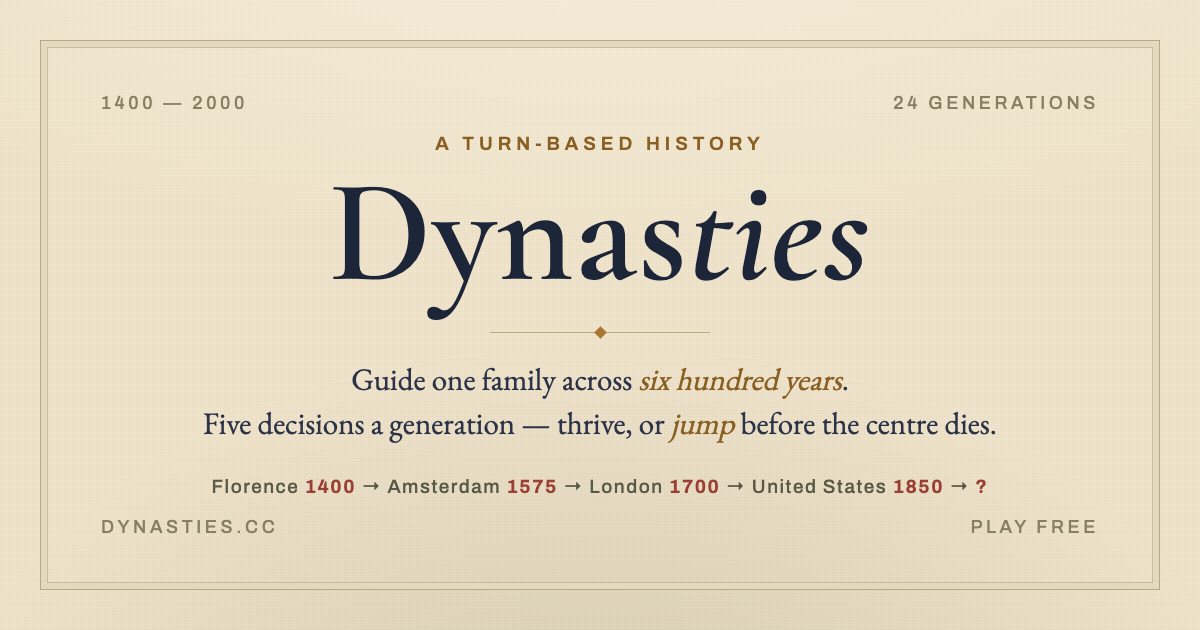
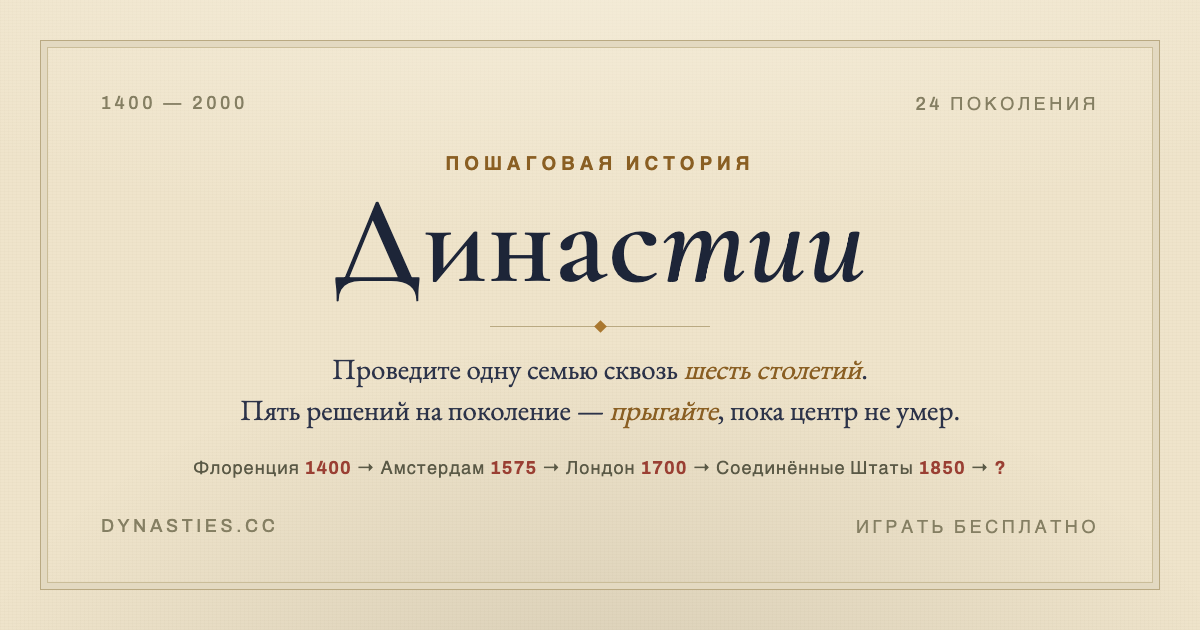
Make Russian the default language
Detection previously fell back to English for every locale that was
not Russian-adjacent. Russian is now the default: only a browser whose
primary language is English opens in English, and everything else —
ru, de, fr, unset — starts Russian. An explicit EN/RU choice still
wins over detection, as before.

The social card follows the default: og/twitter metadata, the static
title and <html lang> are Russian, og:locale is ru_RU with en_US as
the alternate, and og.png is regenerated in Russian. The image is
referenced with ?v=2 so the CDN and unfurlers fetch the new one rather
than the cached English card.

Claude-Session: https://claude.ai/code/session_01L4ywxXea51x9t9k9J9qMsS

diff --git a/index.html b/index.html
@@ -1,32 +1,32 @@
 <!doctype html>
-<html lang="en">
+<html lang="ru">
 <head>
 <meta charset="utf-8">
 <meta name="viewport" content="width=device-width, initial-scale=1.0" />
-<title>Dynasties — Florence to the United States, 1400–2000</title>
-<meta name="description" content="A turn-based history. Guide one family across six hundred years — Florence 1400 to the United States 2000. Five decisions a generation: thrive inside a rising order, or jump before the centre dies." />
+<title>Династии — От Флоренции до Соединённых Штатов, 1400–2000</title>
+<meta name="description" content="Проведите одну семью сквозь шесть столетий. Двадцать пять лет на ход, пять решений на поколение — процветайте, встроившись в восходящий порядок, или прыгайте к следующему центру, пока старый не умер." />
 <link rel="canonical" href="https://dynasties.cc/" />
 <meta property="og:type" content="website" />
-<meta property="og:site_name" content="Dynasties" />
+<meta property="og:site_name" content="Династии" />
 <meta property="og:url" content="https://dynasties.cc/" />
-<meta property="og:title" content="Dynasties — Florence to the United States, 1400–2000" />
-<meta property="og:description" content="Guide one family across six hundred years. Twenty-five years to a turn, five decisions a generation — thrive inside a rising order, or jump before the centre dies." />
-<meta property="og:image" content="https://dynasties.cc/og.png" />
+<meta property="og:title" content="Династии — От Флоренции до Соединённых Штатов, 1400–2000" />
+<meta property="og:description" content="Проведите одну семью сквозь шесть столетий. Двадцать пять лет на ход, пять решений на поколение — процветайте, встроившись в восходящий порядок, или прыгайте к следующему центру, пока старый не умер." />
+<meta property="og:image" content="https://dynasties.cc/og.png?v=2" />
 <meta property="og:image:type" content="image/png" />
 <meta property="og:image:width" content="1200" />
 <meta property="og:image:height" content="630" />
-<meta property="og:image:alt" content="Dynasties — a turn-based history, 1400 to 2000" />
-<meta property="og:locale" content="en_US" />
-<meta property="og:locale:alternate" content="ru_RU" />
+<meta property="og:image:alt" content="Династии — пошаговая история, 1400–2000" />
+<meta property="og:locale" content="ru_RU" />
+<meta property="og:locale:alternate" content="en_US" />
 <meta name="twitter:card" content="summary_large_image" />
-<meta name="twitter:title" content="Dynasties — Florence to the United States, 1400–2000" />
-<meta name="twitter:description" content="Guide one family across six hundred years. Five decisions a generation — thrive inside a rising order, or jump before the centre dies." />
-<meta name="twitter:image" content="https://dynasties.cc/og.png" />
+<meta name="twitter:title" content="Династии — От Флоренции до Соединённых Штатов, 1400–2000" />
+<meta name="twitter:description" content="Проведите одну семью сквозь шесть столетий. Пять решений на поколение — процветайте или прыгайте, пока центр не умер." />
+<meta name="twitter:image" content="https://dynasties.cc/og.png?v=2" />
 <meta name="theme-color" content="#efe4cb" />
 <meta http-equiv="refresh" content="0; url=Dynasties.html">
 </head>
 <body>
 <script>window.location.replace("Dynasties.html");</script>
-<a href="Dynasties.html">Open Dynasties</a>
+<a href="Dynasties.html">Открыть «Династии»</a>
 </body>
 </html>

diff --git a/Dynasties.html b/Dynasties.html
@@ -1,27 +1,27 @@
 <!DOCTYPE html>
-<html lang="en" id="htmlRoot">
+<html lang="ru" id="htmlRoot">
 <head>
 <meta charset="UTF-8" />
 <meta name="viewport" content="width=device-width, initial-scale=1.0" />
-<title>Dynasties — Florence to the United States, 1400–2000</title>
-<meta name="description" content="A turn-based history. Guide one family across six hundred years — Florence 1400 to the United States 2000. Five decisions a generation: thrive inside a rising order, or jump before the centre dies." />
+<title>Династии — От Флоренции до Соединённых Штатов, 1400–2000</title>
+<meta name="description" content="Проведите одну семью сквозь шесть столетий. Двадцать пять лет на ход, пять решений на поколение — процветайте, встроившись в восходящий порядок, или прыгайте к следующему центру, пока старый не умер." />
 <link rel="canonical" href="https://dynasties.cc/" />
 <meta property="og:type" content="website" />
-<meta property="og:site_name" content="Dynasties" />
+<meta property="og:site_name" content="Династии" />
 <meta property="og:url" content="https://dynasties.cc/" />
-<meta property="og:title" content="Dynasties — Florence to the United States, 1400–2000" />
-<meta property="og:description" content="Guide one family across six hundred years. Twenty-five years to a turn, five decisions a generation — thrive inside a rising order, or jump before the centre dies." />
-<meta property="og:image" content="https://dynasties.cc/og.png" />
+<meta property="og:title" content="Династии — От Флоренции до Соединённых Штатов, 1400–2000" />
+<meta property="og:description" content="Проведите одну семью сквозь шесть столетий. Двадцать пять лет на ход, пять решений на поколение — процветайте, встроившись в восходящий порядок, или прыгайте к следующему центру, пока старый не умер." />
+<meta property="og:image" content="https://dynasties.cc/og.png?v=2" />
 <meta property="og:image:type" content="image/png" />
 <meta property="og:image:width" content="1200" />
 <meta property="og:image:height" content="630" />
-<meta property="og:image:alt" content="Dynasties — a turn-based history, 1400 to 2000" />
-<meta property="og:locale" content="en_US" />
-<meta property="og:locale:alternate" content="ru_RU" />
+<meta property="og:image:alt" content="Династии — пошаговая история, 1400–2000" />
+<meta property="og:locale" content="ru_RU" />
+<meta property="og:locale:alternate" content="en_US" />
 <meta name="twitter:card" content="summary_large_image" />
-<meta name="twitter:title" content="Dynasties — Florence to the United States, 1400–2000" />
-<meta name="twitter:description" content="Guide one family across six hundred years. Five decisions a generation — thrive inside a rising order, or jump before the centre dies." />
-<meta name="twitter:image" content="https://dynasties.cc/og.png" />
+<meta name="twitter:title" content="Династии — От Флоренции до Соединённых Штатов, 1400–2000" />
+<meta name="twitter:description" content="Проведите одну семью сквозь шесть столетий. Пять решений на поколение — процветайте или прыгайте, пока центр не умер." />
+<meta name="twitter:image" content="https://dynasties.cc/og.png?v=2" />
 <meta name="theme-color" content="#efe4cb" />
 <link rel="preconnect" href="https://fonts.googleapis.com" />
 <link rel="preconnect" href="https://fonts.gstatic.com" crossorigin />

diff --git a/dynasties-app.js b/dynasties-app.js
@@ -84,10 +84,12 @@ function detectLang(){
     var saved = Store.get(LANG_KEY);
     if(saved === "en" || saved === "ru") return saved;
   } catch(_){}
+  /* Russian is the default. Only a browser whose primary language is
+     English opens in English — every other locale (ru, de, fr,
+     unknown) gets Russian. */
   var navLang = (navigator.language || navigator.userLanguage || "").toLowerCase();
-  if(navLang.indexOf("ru") === 0) return "ru";
-  if(/^(be|kk|ky|uz)/.test(navLang)) return "ru";
-  return "en";
+  if(/^en/.test(navLang)) return "en";
+  return "ru";
 }
 function setLang(lang){
   if(lang !== "en" && lang !== "ru") return;
